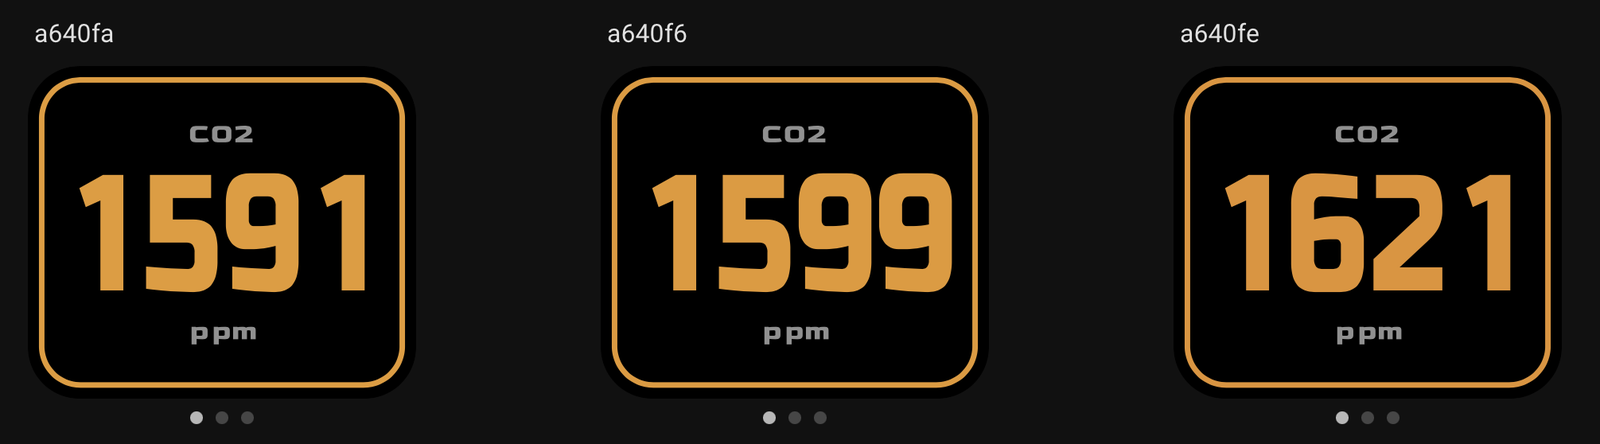
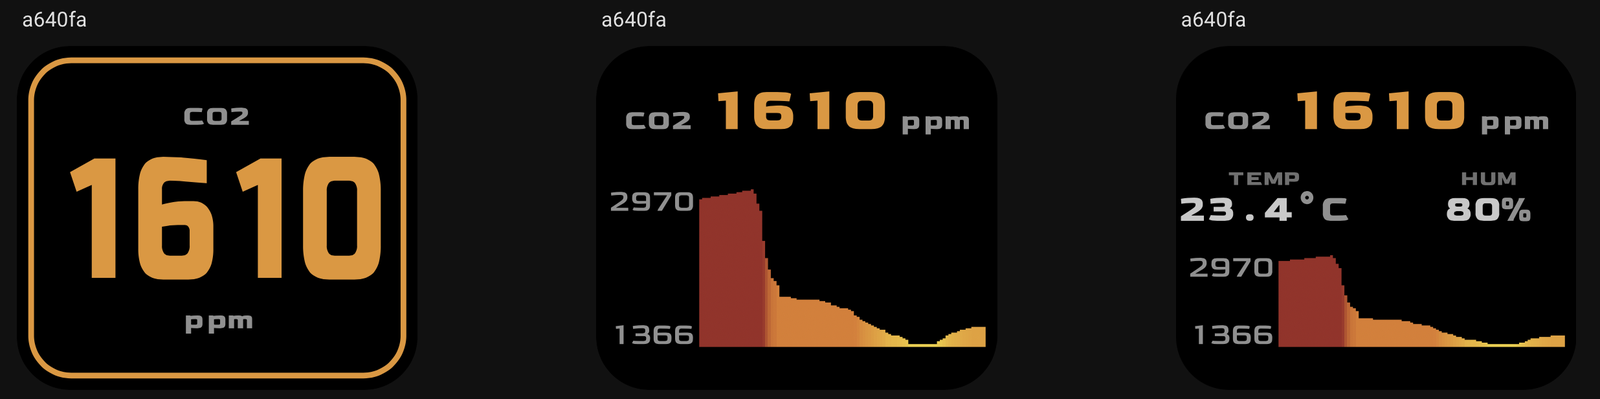
Show the three card screens

diff --git a/en/docs/integrations.md b/en/docs/integrations.md
@@ -59,8 +59,8 @@ dashboard: the same layout, typefaces and color scale, with the history chart.
 The three screens rotate like a carousel, and a tap moves to the next one.
 
 <figure markdown="span">
-  ![Three CO2 Monitor cards in a Home Assistant dashboard, on the big CO₂ screen](img/ha-card.png)
-  <figcaption>Three monitors in a Home Assistant dashboard, each one on its big CO₂ screen.</figcaption>
+  ![The card's three screens in a Home Assistant dashboard: big CO₂, CO₂ with its chart, and CO₂ with temperature and humidity](img/ha-card.png)
+  <figcaption>The card's three screens, the same as on the monitor.</figcaption>
 </figure>
 
 The card is optional: the monitor works in Home Assistant without it. The

diff --git a/es/docs/integrations.md b/es/docs/integrations.md
@@ -60,8 +60,8 @@ colores, con la gráfica del historial. Las tres pantallas giran como un
 carrusel, y un toque pasa a la siguiente.
 
 <figure markdown="span">
-  ![Tres tarjetas CO2 Monitor en un panel de Home Assistant, en la pantalla de CO₂ grande](img/ha-card.png)
-  <figcaption>Tres medidores en un panel de Home Assistant, cada uno en su pantalla de CO₂ grande.</figcaption>
+  ![Las tres pantallas de la tarjeta en un panel de Home Assistant: CO₂ grande, CO₂ con su gráfica, y CO₂ con temperatura y humedad](img/ha-card.png)
+  <figcaption>Las tres pantallas de la tarjeta, iguales que en el medidor.</figcaption>
 </figure>
 
 La tarjeta es opcional: el medidor funciona en Home Assistant sin ella. La
